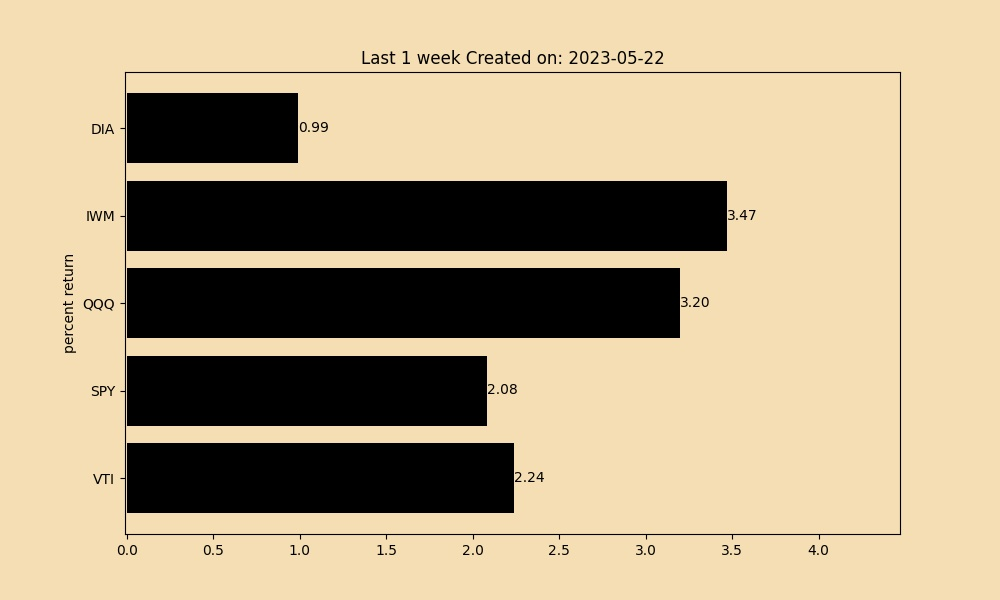
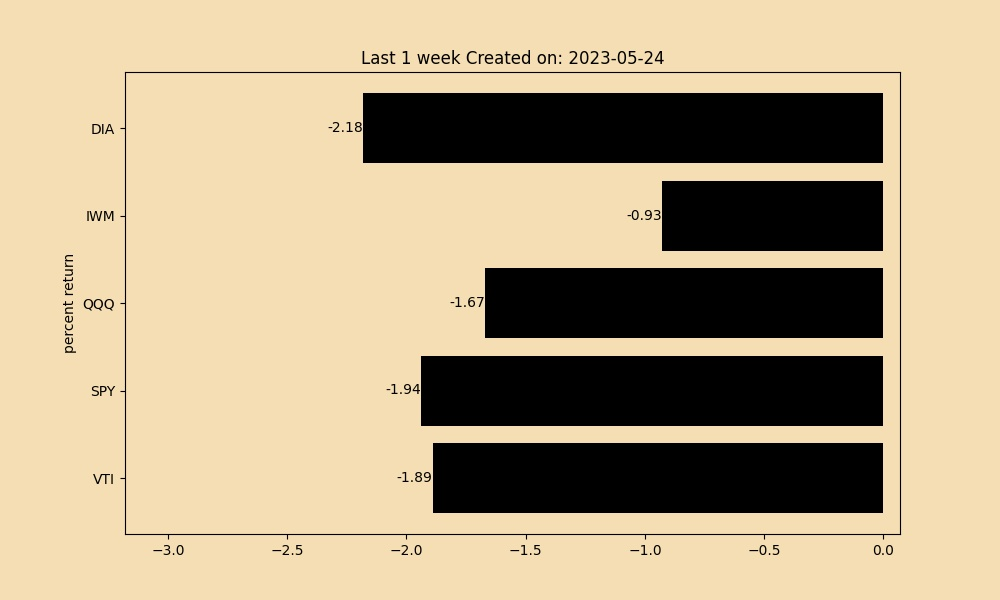
add 1 day chart to dashboard

diff --git a/dashboard.html b/dashboard.html
@@ -124,6 +124,7 @@
 
         
         var images = [
+            "images/stock return charts/market_returns_1 day.jpg",
             "images/stock return charts/market_returns_1 week.jpg",
             "images/stock return charts/market_returns_1 Month.jpg",
             "images/stock return charts/market_returns_3 Months.jpg",

diff --git a/python/generate_performance_table.py b/python/generate_performance_table.py
@@ -6,7 +6,7 @@ import matplotlib.pyplot as plt
 tickers = ['DIA', 'IWM', 'QQQ', 'SPY', 'VTI']
 data = yf.download(tickers, period='1y')['Adj Close']
 
-periods = {'1 week':5, '1 Month':30, '3 Months':90, '6 Months':180, '1 Year':250}
+periods = {'1 Day':2, '1 week':5, '1 Month':30, '3 Months':90, '6 Months':180, '1 Year':250}
 # create a data frame with tickers as the index and periods.keys() as the columns
 returns_df = pd.DataFrame(index=tickers, columns=periods.keys())
 
